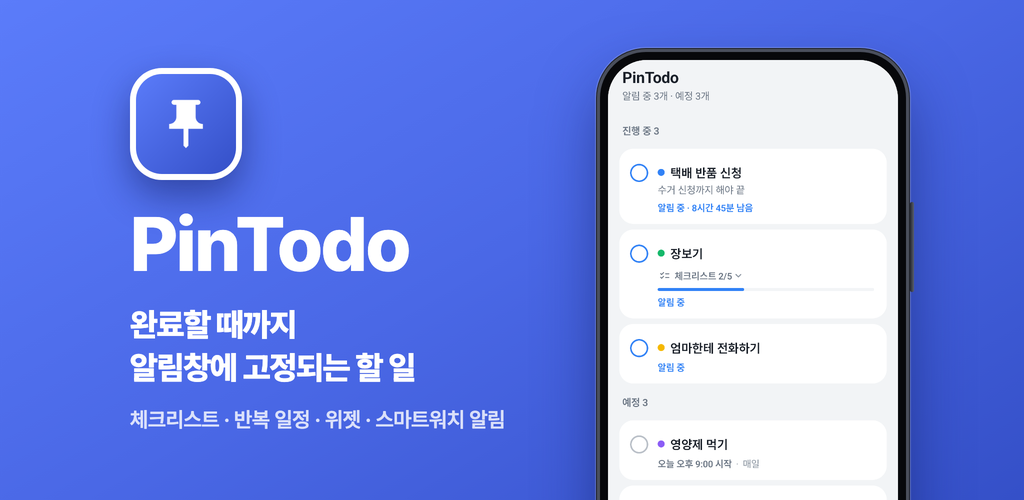
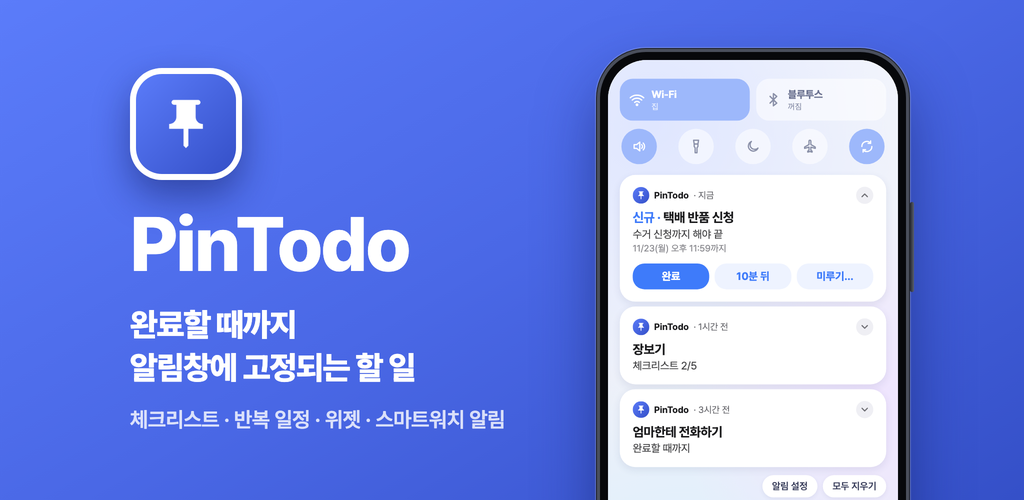
v1.0.0 - docs: 스토어 스크린샷을 '고정' 중심으로 다시 구성
- 앞 3장을 모두 핵심 기능으로: 상단바에 고정된 할 일 · 보통 알림(밀면 사라짐) vs PinTodo(다시 나타남) · 상단바에서 바로 완료
- 알림창은 직접 그린 밝은 갤럭시 느낌 화면으로(빠른 설정은 연하게, 알림 카드가 눈에 띄게)
- 4~6번 문구를 상단바와 연결(새 할 일 · 반복 · 미루기), 앱 안 새 할 일 화면 추가
- 폰 위치 위로, 목업 개선, 모든 장에 로고, 마지막 장 아이콘을 장점 아이콘으로
- 그래픽 이미지: 예전 구성 유지, 폰 화면을 알림창에 고정된 알림으로, 아이콘 잘 보이게, 선명하게
- store/listing.md·shots-src/README.md·CLAUDE.md를 새 구성에 맞춤

diff --git a/store/shots-src/compose.html b/store/shots-src/compose.html
@@ -9,7 +9,7 @@
 body { background: #222; font-family: P, sans-serif; color: #fff; word-break: keep-all; }
 .slide { position: relative; width: 1080px; height: 2160px; overflow: hidden; margin-bottom: 40px;
   background: linear-gradient(160deg, #5b7cfa 0%, #4a68e6 45%, #3550c8 100%); }
-.head { position: absolute; left: 0; right: 0; top: 0; height: 580px; padding-top: 120px !important; display: flex; flex-direction: column;
+.head { position: absolute; left: 0; right: 0; top: 0; height: 480px; padding-top: 110px !important; display: flex; flex-direction: column;
   align-items: center; justify-content: center; text-align: center; padding: 0 60px; }
 .brandpill { position: absolute; left: 50%; top: 56px; transform: translateX(-50%); display: inline-flex; align-items: center; gap: 14px; height: 78px; padding: 0 30px 0 16px; border-radius: 39px;
   background: #fff; color: #2f49c4; font-size: 36px; font-weight: 800; letter-spacing: -.5px; box-shadow: 0 12px 30px rgba(10, 20, 80, .28); }
@@ -152,7 +152,86 @@ body { background: #222; font-family: P, sans-serif; color: #fff; word-break: ke
   box-shadow: 0 0 0 3px #4a4f5c, 0 0 0 4px #23262e, 0 0 0 5px rgba(255,255,255,.18), 0 30px 60px rgba(10, 20, 80, .5); }
 .fphone::after { content: ""; position: absolute; right: -8px; top: 150px; width: 4px; height: 90px; border-radius: 2px; background: linear-gradient(90deg, #23262e, #5a606e); }
 .fphone .sc { position: relative; overflow: hidden; width: 290px; height: 623px; border-radius: 39px; background: #f2f3f5; }
-.fphone .sc img { position: absolute; left: 0; width: 100%; }
+.fphone .sc > img { position: absolute; left: 0; width: 100%; }
+/* 갤럭시(One UI) 느낌 알림창 — 기기 픽셀(가로 1080) 기준으로 그린 뒤 폰 화면 크기로 축소 */
+.gsh { position: relative; width: 1080px; height: 2320px; padding: 70px 44px; color: #fff; font-family: P, sans-serif;
+  background: radial-gradient(circle at 18% 12%, #5a6fb8 0, rgba(90,111,184,0) 42%), radial-gradient(circle at 88% 62%, #7a5aae 0, rgba(122,90,174,0) 48%),
+    radial-gradient(circle at 30% 92%, #3d7f9e 0, rgba(61,127,158,0) 40%), linear-gradient(180deg, #2a3563, #161b33); }
+.gq { display: grid; grid-template-columns: repeat(4, 1fr); gap: 24px; }
+.gq div { height: 170px; border-radius: 58px; background: rgba(255,255,255,.15); display: flex; align-items: center; justify-content: center; }
+.gq div.on { background: #4c86ff; }
+.gb { margin-top: 28px; height: 104px; border-radius: 52px; background: rgba(255,255,255,.15); overflow: hidden; }
+.gb div { height: 100%; width: 62%; background: rgba(255,255,255,.93); border-radius: 52px; display: flex; align-items: center; justify-content: flex-end; padding-right: 30px; }
+.gn { margin-top: 40px; display: flex; flex-direction: column; gap: 18px; }
+.gc { background: rgba(250,250,252,.97); color: #1c1c1e; border-radius: 58px; padding: 44px 48px 46px; }
+.gh { display: flex; align-items: center; gap: 18px; font-size: 34px; color: #6e6e73; }
+.gh img { width: 62px; height: 62px; border-radius: 50%; }
+.gh b { color: #1c1c1e; font-weight: 700; }
+.gh i { margin-left: auto; width: 64px; height: 64px; border-radius: 50%; background: #efeff4; display: flex; align-items: center; justify-content: center; }
+.gt { margin-top: 22px; font-size: 48px; font-weight: 700; letter-spacing: -1px; }
+.gt em { font-style: normal; color: #3e7bfa; }
+.gm { margin-top: 8px; font-size: 40px; color: #48484a; letter-spacing: -.5px; }
+.gs { margin-top: 10px; font-size: 34px; color: #8e8e93; }
+.gl { margin-top: 18px; display: flex; flex-direction: column; gap: 14px; font-size: 42px; }
+.gl div { display: flex; align-items: center; gap: 22px; }
+.gl u { text-decoration: none; width: 46px; height: 46px; border-radius: 12px; border: 4px solid #c7c7cc; display: flex; align-items: center; justify-content: center; }
+.gl div.d { color: #8e8e93; text-decoration: line-through; }
+.gl div.d u { background: #3e7bfa; border-color: #3e7bfa; }
+.ga { margin-top: 36px; display: flex; gap: 20px; }
+.ga span { flex: 1; text-align: center; font-size: 40px; font-weight: 700; color: #3e7bfa; background: #eef3ff; border-radius: 44px; padding: 24px 0; }
+.ga span.p { background: #3e7bfa; color: #fff; }
+.gf { margin-top: 30px; display: flex; justify-content: flex-end; gap: 20px; }
+.gf span { font-size: 36px; font-weight: 600; padding: 20px 36px; border-radius: 44px; background: rgba(255,255,255,.16); }
+.gzoom { position: absolute; width: 992px; transform-origin: 0 0; border-radius: 58px; box-shadow: 0 50px 110px rgba(10, 20, 80, .55), 0 0 0 8px rgba(255,255,255,.5); }
+.bigpin { position: absolute; z-index: 5; filter: drop-shadow(10px 22px 18px rgba(10, 20, 70, .45)); }
+.gzoom .gc { background: #fafafc; }
+.glab { align-self: flex-start; font-size: 38px; font-weight: 800; padding: 18px 32px; border-radius: 44px; background: #fff; color: #3a3f5c; margin-top: 16px; letter-spacing: -.5px; }
+.glab.y { background: #ffcf3a; color: #3a2a00; }
+.gslot { position: relative; height: 262px; border: 5px dashed rgba(255,255,255,.45); border-radius: 58px; overflow: hidden; }
+.gfade { position: absolute; left: 0; right: 0; top: 0; transform: translateX(400px); opacity: .55; -webkit-mask-image: linear-gradient(90deg, #000 25%, transparent 75%); }
+.gq2 { position: absolute; right: 70px; top: 50%; transform: translateY(-50%) rotate(14deg); font-size: 190px; font-weight: 800; color: #fff; text-shadow: 0 12px 30px rgba(0,0,0,.3); }
+.gbell { width: 62px; height: 62px; border-radius: 50%; background: #8e8e93; display: flex; align-items: center; justify-content: center; }
+/* 밝은 알림창 (다른 장과 같은 밝은 느낌) */
+.gsh { color: #1c1c1e; background: radial-gradient(circle at 15% 10%, #dfe6ff 0, rgba(223,230,255,0) 45%), radial-gradient(circle at 90% 55%, #efe4ff 0, rgba(239,228,255,0) 45%),
+  radial-gradient(circle at 25% 90%, #ddf1ff 0, rgba(221,241,255,0) 42%), linear-gradient(180deg, #f4f6fc, #e8ecf6); }
+.gq div { background: #fff; box-shadow: 0 6px 18px rgba(40, 50, 100, .07); }
+.gq div.on { background: #3e7bfa; }
+.gb { background: #fff; box-shadow: 0 6px 18px rgba(40, 50, 100, .07); }
+.gb div { background: #3e7bfa; }
+.gc { background: #fff; box-shadow: 0 10px 30px rgba(40, 50, 100, .09); }
+.gf span { background: #fff; color: #3a3f5c; box-shadow: 0 6px 18px rgba(40, 50, 100, .07); }
+.glab { background: #3a3f5c; color: #fff; }
+.gslot { height: auto; padding: 0; border-color: rgba(60, 70, 110, .28); }
+.gfade { position: relative; transform: translateX(170px); opacity: .5; box-shadow: none; -webkit-mask-image: linear-gradient(90deg, #000 35%, transparent 85%); }
+.gq2 { color: #5b6585; text-shadow: none; }
+/* 빠른 설정 패널 (갤럭시 느낌) */
+.gp { background: rgba(255,255,255,.92); border-radius: 60px; padding: 38px 38px 40px; box-shadow: 0 10px 30px rgba(40, 50, 100, .08); }
+.gp .r1 { display: flex; gap: 24px; }
+.gp .wt { flex: 1; height: 156px; border-radius: 48px; background: #f0f2f7; display: flex; align-items: center; gap: 24px; padding: 0 34px; }
+.gp .wt.on { background: #3e7bfa; color: #fff; }
+.gp .wt b { display: block; font-size: 38px; font-weight: 700; letter-spacing: -.5px; }
+.gp .wt span { display: block; margin-top: 4px; font-size: 30px; opacity: .75; }
+.gp .r2 { display: flex; justify-content: space-between; margin-top: 30px; padding: 0 6px; }
+.gp .ci { width: 132px; height: 132px; border-radius: 50%; background: #f0f2f7; display: flex; align-items: center; justify-content: center; }
+.gp .ci.on { background: #3e7bfa; }
+.gp .br { position: relative; margin-top: 32px; height: 100px; border-radius: 50px; background: #f0f2f7; overflow: hidden; }
+.gp .br div { position: absolute; left: 0; top: 0; bottom: 0; width: 64%; background: #3e7bfa; border-radius: 50px; display: flex; align-items: center; padding-left: 34px; }
+/* 빠른 설정: 흰 패널 배경 없이 버튼만 */
+.gp { background: none; box-shadow: none; padding: 0; border-radius: 0; }
+.gp .wt, .gp .ci, .gp .br { background: #fff; box-shadow: 0 6px 18px rgba(40, 50, 100, .08); }
+.gp .wt.on, .gp .ci.on { background: #3e7bfa; }
+.gsec { display: flex; align-items: center; gap: 24px; margin: 22px 10px 10px; }
+.gsec i { flex: none; width: 78px; height: 78px; border-radius: 50%; display: flex; align-items: center; justify-content: center; }
+.gsec.no i { background: #ffe4e7; } .gsec.ok i { background: #3e7bfa; }
+.gsec b { display: block; font-size: 48px; font-weight: 800; letter-spacing: -1px; color: #1c1c1e; }
+.gsec.no b { color: #6b7280; }
+.gsec span { display: block; margin-top: 4px; font-size: 38px; font-weight: 600; letter-spacing: -.5px; color: #6b7280; }
+.gsec.ok span { color: #2f5fe0; }
+/* 빠른 설정을 연하게 (아래 알림에 눈이 가도록) */
+.gp .wt, .gp .ci, .gp .br { background: rgba(255,255,255,.55); box-shadow: none; }
+.gp .wt.on, .gp .ci.on { background: #9db8fb; color: #fff; }
+.gp .wt { color: #6b7290; }
+.gp .br div { background: #9db8fb; }
 </style>
 </head>
 <body>
@@ -174,51 +253,86 @@ function phone(sw, top, img, cut) {
   } else inner = `<div class="screen" style="width:${sw}px;height:${sh}px"><img class="crop" src="${R}${img}.png" style="top:${-SB * s}px"><div class="glare"></div></div>`;
   return `<div class="phone" style="top:${top}px">${inner}</div>`;
 }
-function head(t, s, brand = true) { return `<div class="head">${brand ? `<div class="brandpill"><img src="${ICON}">PinTodo</div>` : ""}<div class="title">${t}</div><div class="sub">${s}</div></div>`; }
+function head(t, s, brand = true, tall = false) { return `<div class="head"${tall ? ' style="height:580px;padding-top:120px"' : ""}>${brand ? `<div class="brandpill"><img src="${ICON}">PinTodo</div>` : ""}<div class="title">${t}</div><div class="sub">${s}</div></div>`; }
 function notiCrop(y, s) {  // cmp.png 의 알림 한 줄 안쪽 (x 62..1018, 높이 160 — 원본 둥근 모서리 제외)
   return `style="height:${160 * s}px;background-image:url(${R}cmp.png);background-size:${W * s}px auto;background-position:${-62 * s}px ${-y * s}px"`;
 }
 const sN = 960 / 956;
-const PS = 700 / W, PT = 600, PL = (1080 - 732) / 2 + 16;   // 폰(화면 너비 700) 화면 왼쪽 위 = (PL, PT+16)
+const PS = 700 / W, PT = 500, PL = (1080 - 732) / 2 + 16;   // 폰(화면 너비 700) 화면 왼쪽 위 = (PL, PT+16)
 const sy = (y, cut = 466) => PT + 16 + (80 + y - cut) * PS;         // 원본 y → 슬라이드 y (알림창 화면)
 const sx = x => PL + x * PS;
 function bg(img, x, y, s) { return `background-image:url(${R}${img}.png);background-size:${W * s}px auto;background-position:${-x * s}px ${-y * s}px`; }
+// ── 갤럭시(One UI) 느낌 알림창 ──
+const GI = { x: '<path d="M6 6l12 12M18 6L6 18"/>', flash: '<path d="M8 2h8l-1 6H9z"/><path d="M9 8h6v4l-1.5 2v8h-3v-8L9 12z"/>', plane: '<path d="M10.5 3.5a1.5 1.5 0 0 1 3 0V9l7 4v2l-7-2v5l2 1.5V21l-3.5-1-3.5 1v-1.5l2-1.5v-5l-7 2v-2l7-4z"/>', rotate: '<path d="M4 12a8 8 0 0 1 14-5.3M20 12a8 8 0 0 1-14 5.3"/><path d="M18 3v4h-4M6 21v-4h4"/>', bell: '<path d="M6 16V11a6 6 0 0 1 12 0v5l1.5 2h-15z"/><path d="M10 20a2 2 0 0 0 4 0"/>', wifi: '<path d="M2 9a15 15 0 0 1 20 0M5 12.5a10 10 0 0 1 14 0M8.5 16a5 5 0 0 1 7 0"/><circle cx="12" cy="19.5" r="1"/>',
+  sound: '<path d="M4 9v6h4l5 4V5L8 9z"/><path d="M16 9a4 4 0 0 1 0 6M18.5 6.5a8 8 0 0 1 0 11"/>',
+  bt: '<path d="M7 7l10 10-5 4V3l5 4L7 17"/>', moon: '<path d="M20 14.5A8 8 0 1 1 9.5 4a6.5 6.5 0 0 0 10.5 10.5z"/>',
+  sun: '<circle cx="12" cy="12" r="4"/><path d="M12 2v2M12 20v2M2 12h2M20 12h2M4.9 4.9l1.4 1.4M17.7 17.7l1.4 1.4M4.9 19.1l1.4-1.4M17.7 6.3l1.4-1.4"/>',
+  down: '<path d="M6 9l6 6 6-6"/>', up: '<path d="M6 15l6-6 6 6"/>', check: '<path d="M5 12.5l4.5 4.5L19 7.5"/>' };
+const gi = (k, c = "#fff", w = 60, sw = 2) => `<svg width="${w}" height="${w}" viewBox="0 0 24 24" fill="none" stroke="${c}" stroke-width="${sw}" stroke-linecap="round" stroke-linejoin="round">${GI[k]}</svg>`;
+function gcard(n) {
+  return `<div class="gc">
+    <div class="gh"><img src="${ICON}"><b>PinTodo</b><span>· ${n.when || "지금"}</span><i>${gi(n.open ? "up" : "down", "#6e6e73", 40, 2.5)}</i></div>
+    <div class="gt">${n.isNew ? "<em>신규 · </em>" : ""}${n.title}</div>
+    ${n.memo ? `<div class="gm">${n.memo}</div>` : ""}
+    ${n.items ? `<div class="gl">${n.items.map(([t, d]) => `<div class="${d ? "d" : ""}"><u>${d ? gi("check", "#fff", 34, 3.5) : ""}</u>${t}</div>`).join("")}</div>` : ""}
+    ${n.sched ? `<div class="gs">${n.sched}</div>` : ""}
+    ${n.open ? `<div class="ga"><span class="p">완료</span><span>10분 뒤</span><span>미루기…</span></div>` : ""}
+  </div>`;
+}
+function gshade(cards) {
+  return `<div class="gsh">
+    <div class="gp">
+      <div class="r1"><div class="wt on">${gi("wifi", "#fff", 60)}<div><b>Wi-Fi</b><span>집</span></div></div>
+        <div class="wt">${gi("bt", "#8a90a8", 60)}<div><b>블루투스</b><span>꺼짐</span></div></div></div>
+      <div class="r2">${[["sound", 1], ["flash", 0], ["moon", 0], ["plane", 0], ["rotate", 1]].map(([k, on]) => `<div class="ci ${on ? "on" : ""}">${gi(k, on ? "#fff" : "#8a90a8", 56)}</div>`).join("")}</div>
+    </div>
+    <div class="gn">${typeof cards === "string" ? cards : cards.map(gcard).join("")}</div>
+    <div class="gf"><span>알림 설정</span><span>모두 지우기</span></div>
+  </div>`;
+}
+function phoneHTML(sw, top, html) {
+  const s = sw / W, sh = Math.round((H - SB) * s);
+  return `<div class="phone" style="top:${top}px"><div class="screen" style="width:${sw}px;height:${sh}px"><div style="width:${W}px;height:${H - SB}px;transform:scale(${s});transform-origin:0 0">${html}</div><div class="glare"></div></div></div>`;
+}
+const C_RET = { title: "택배 반품 신청", memo: "수거 신청까지 해야 끝", sched: "11/23(월) 오후 11:59까지", isNew: true, open: true };
+const C_RET_S = { title: "택배 반품 신청", memo: "수거 신청까지 해야 끝", when: "40분 전" };
+const C_SHOP = { title: "장보기", memo: "체크리스트 2/5", when: "1시간 전" };
+const C_SHOP_OPEN = { title: "장보기", isNew: true, open: true, items: [["우유", 1], ["계란", 1], ["두부", 0], ["대파", 0], ["키친타월", 0]], sched: "완료할 때까지" };
+const C_MOM = { title: "엄마한테 전화하기", memo: "완료할 때까지", when: "3시간 전" };
+const PIN_SVG = `<svg width="200" height="200" viewBox="0 0 24 24"><defs><linearGradient id="pg" x1="0" y1="0" x2="1" y2="1"><stop offset="0" stop-color="#ffe27a"/><stop offset=".55" stop-color="#ffc42e"/><stop offset="1" stop-color="#f59e0b"/></linearGradient></defs>
+  <path d="M12 15.5v6.2" stroke="#c9ced8" stroke-width="1.3" stroke-linecap="round"/>
+  <path d="M16 3H8a1 1 0 0 0 0 2h1v5.2c-1.3.7-2.5 1.9-3 3.5a.8.8 0 0 0 .8 1.1h10.4a.8.8 0 0 0 .8-1.1c-.5-1.6-1.7-2.8-3-3.5V5h1a1 1 0 0 0 0-2z" fill="url(#pg)" stroke="#b86e00" stroke-width=".5"/>
+  <path d="M10 5.2h1.3v5.4c-.9.5-1.7 1.2-2.1 2" stroke="#fff6cf" stroke-width=".7" fill="none" stroke-linecap="round" opacity=".9"/></svg>`;
+const PUSHPIN = `<svg width="200" height="200" viewBox="0 0 100 100"><defs>
+  <radialGradient id="ph" cx="38%" cy="32%" r="70%"><stop offset="0" stop-color="#ff8a95"/><stop offset=".45" stop-color="#f43f52"/><stop offset="1" stop-color="#b3132a"/></radialGradient>
+  <linearGradient id="pn" x1="0" x2="1"><stop offset="0" stop-color="#8d94a3"/><stop offset=".5" stop-color="#eef0f4"/><stop offset="1" stop-color="#8d94a3"/></linearGradient></defs>
+  <ellipse cx="50" cy="94" rx="9" ry="3" fill="rgba(30,40,80,.25)"/>
+  <path d="M48 50 L50 95 L52 50 Z" fill="url(#pn)"/>
+  <circle cx="50" cy="32" r="23" fill="url(#ph)"/>
+  <ellipse cx="42" cy="23" rx="8" ry="5.5" fill="#fff" opacity=".7" transform="rotate(-30 42 23)"/></svg>`;
 const CS = 888 / 956;
 const slides = [
-  // 1. 공감: 보통 알림은 밀면 사라지지만 PinTodo 알림은 남음 (직접 그린 카드)
-  head("알림, 밀면 끝이었죠?", "PinTodo는 끝낼 때까지 상단바에 남아 있어요") + `
-  <div class="pill w" style="left:60px;top:700px">보통 알림 · 밀면 사라지고 끝</div>
-  <div class="ghost2" style="top:790px"><div class="slot"></div>
-    <div class="in"><div class="ic"></div><div class="tx"><b>택배 반품 신청</b><span>오늘 자정까지 수거 신청하기</span></div></div></div>
-  <div class="swipe" style="top:830px">→</div>
-  <div class="qmark" style="top:790px">?</div>
-  <div class="pill y" style="left:60px;top:1080px">↻ PinTodo · 밀어도 다시 나타나요</div>
-  <div class="nc" style="top:1170px">
-    <div class="top"><img src="${ICON}">PinTodo · 지금</div>
-    <div class="tt">택배 반품 신청</div>
-    <div class="mm">수거 신청까지 해야 끝</div>
-    <div class="sc">오늘 오후 11:59까지</div>
-    <div class="ac"><span class="p">완료</span><span>10분 뒤</span><span>미루기…</span></div>
-  </div>
-  <div class="facts" style="top:1760px">
-    <div class="fact"><i>↻</i>밀어서 지워도, '모두 지우기'를 눌러도</div>
-    <div class="fact ok"><i>✓</i>[완료]를 눌러야만 사라져요</div>
-  </div>`,
-  // 2. 앱 화면
-  head("적어 두기만 하세요", "시간이 되면 상단바에 띄우고, 끝낼 때까지 남겨 둬요") + phone(700, PT, "list"),
-  // 3. 빠른 추가
-  head("생각난 그 순간,\n바로 적어요", "'내일 오후 3시'라고 쓰면 시간까지 자동으로") + phone(700, PT, "quick"),
-  // 4. 알림에서 바로 (펼친 체크리스트 알림을 크게)
-  head("앱 열 필요 없이\n상단바에서 바로 완료", "체크리스트도 알림에서 바로 확인") + phone(700, PT, "noti", 532) + `
-  <div class="zoom" style="top:1195px;height:${(1424 - 736) * 980 / 996}px;${bg("noti", 42, 736, 980 / 996)}"></div>`,
-  // 5. 미루기
-  head("지금은 못 하겠다면?", "미뤄 두면 그때 다시 알려 줘요") + phone(700, PT, "snooze"),
-  // 6. 반복
-  head("매일 영양제, 매달 관리비", "반복하는 일은 한 번만 적어 두세요") + phone(700, PT, "edit"),
+  // 1. 핵심: 할 일을 상단바에 꽂아 둠 (갤럭시 느낌 알림창 + 압정)
+  head("할 일을 상단바에\n꽂아 두세요", "완료할 때까지 사라지지 않는 할 일 알림") + phoneHTML(700, PT, gshade([C_RET, C_SHOP, C_MOM])),
+  // 2. 공감: 보통 알림은 밀면 사라지고, PinTodo는 다시 나타남 (밝은 알림창 안에서, 문구로 구분)
+  head("알림, 밀면 끝이었죠?", "PinTodo는 [완료]를 눌러야만 사라져요") + phoneHTML(700, PT, gshade(`
+    <div class="gsec no"><i>${gi("x", "#f04452", 44, 3)}</i><div><b>보통 알림</b><span>밀면 그대로 사라져요</span></div></div>
+    <div class="gslot"><div class="gc gfade"><div class="gh"><span class="gbell">${gi("bell", "#fff", 38, 2.2)}</span><b>리마인더</b><span>· 지금</span></div>
+      <div class="gt">택배 반품 신청</div><div class="gm">오늘 자정까지 수거 신청하기</div></div></div>
+    <div class="gsec ok" style="margin-top:56px"><i>${gi("check", "#fff", 44, 3)}</i><div><b>PinTodo</b><span>밀어도, 모두 지워도 다시 나타나요</span></div></div>
+    ${gcard(C_RET)}${gcard(C_MOM)}`)),
+  // 3. 알림에서 바로 완료 (갤럭시 느낌 알림창 + 펼친 체크리스트 확대)
+  head("앱 열 필요 없이\n상단바에서 바로 완료", "체크리스트도 알림에서 바로 확인") + phoneHTML(700, PT, gshade([C_SHOP_OPEN, C_RET_S, C_MOM])),
+  // 4. 앱에서 새 할 일 (날짜 인식)
+  head("적어 두면, 그 시간에\n상단바에 고정돼요", "'내일 오후 3시'처럼 쓰면 시간도 자동으로") + phone(700, PT, "newtodo"),
+  // 5. 반복
+  head("매일 그 시간,\n상단바에 다시 떠요", "영양제·관리비처럼 반복하는 일은 한 번만") + phone(700, PT, "edit"),
+  // 6. 미루기
+  head("지금은 못 하겠다면?\n미뤄 두세요", "그 시간이 되면 다시 상단바에") + phone(700, PT, "snooze"),
   // 7. 위젯
   head("홈 화면에서도\n한눈에", "위젯에서 바로 완료·미루기") + phone(700, PT, "home"),
   // 8. 광고·로그인 없음
-  head("광고 없이,\n로그인 없이", "필요한 기능만, 처음부터 끝까지 무료로", false) + `
+  head("광고 없이,\n로그인 없이", "필요한 기능만, 처음부터 끝까지 무료로", false, true) + `
   <div class="hero"><img src="${ICON}"><div class="nm">PinTodo</div></div>
   <div class="rows">
     <div class="row"><i><svg width="44" height="44" viewBox="0 0 24 24" fill="none" stroke="#3182f6" stroke-width="2" stroke-linecap="round" stroke-linejoin="round"><path d="M12 3l1.8 4.7L18.5 9.5l-4.7 1.8L12 16l-1.8-4.7L5.5 9.5l4.7-1.8z"/><path d="M19 15l.8 2.2L22 18l-2.2.8L19 21l-.8-2.2L16 18l2.2-.8z"/></svg></i><div><b>광고 X</b><span>화면을 가리는 광고가 없어요</span></div></div>
@@ -249,7 +363,7 @@ const feat2 = `<div class="feat" id="feature2">
     <div class="cp">완료할 때까지<br>알림창에 고정되는 할 일</div>
     <div class="ft">체크리스트 · 반복 일정 · 위젯 · 스마트워치 알림</div>
   </div>
-  <div class="fphone"><div class="sc"><img src="${R}list.png" style="top:${-80 * 290 / 1080}px"></div></div>
+  <div class="fphone"><div class="sc"><div style="width:1080px;height:2320px;transform:scale(${290 / 1080});transform-origin:0 0">${gshade([C_RET, C_SHOP, C_MOM])}</div></div></div>
 </div>`;
 document.getElementById("out").innerHTML = slides.map((h, i) => `<div class="slide" id="s${i + 1}">${h}</div>`).join("") + feature + feat2;
 document.fonts.ready.then(() => Promise.all([...document.images].map(i => i.decode().catch(() => {})))).then(() => { window.READY = true; });

diff --git a/store/shots-src/render.py b/store/shots-src/render.py
@@ -5,7 +5,7 @@ from playwright.async_api import async_playwright
 from PIL import Image
 P = os.path.dirname(os.path.abspath(__file__))
 OUT = os.path.abspath(sys.argv[1]) if len(sys.argv) > 1 else os.path.dirname(P)
-NAMES = ["01-hook", "02-list", "03-quick-add", "04-notification", "05-snooze", "06-repeat", "07-widget", "08-no-ads"]
+NAMES = ["01-pin", "02-hook", "03-notification", "04-new-todo", "05-repeat", "06-snooze", "07-widget", "08-no-ads"]
 async def main():
     async with async_playwright() as p:
         b = await p.chromium.launch(args=["--allow-file-access-from-files"])

diff --git a/store/shots-src/README.md b/store/shots-src/README.md
@@ -2,15 +2,17 @@
 
 `store/screenshots/01~08.png`(1080×2160)와 `store/feature-1024x500.png`를 만드는 소스. 원본 화면·폰트는 `work/`(커밋 안 함)에 생긴다.
 
-구성: 1 공감(직접 그린 알림 카드: 보통 알림은 밀면 사라짐 ↔ PinTodo는 남음) → 2 앱 목록 → 3 빠른 추가(날짜 인식) → 4 알림에서 바로 완료(체크리스트 확대) → 5 미루기 → 6 반복 → 7 위젯 → 8 광고·로그인 없음
+구성: 1 상단바에 고정된 할 일 → 2 보통 알림(밀면 사라짐) vs PinTodo(다시 나타남) → 3 상단바에서 바로 완료(펼친 체크리스트) → 4 새 할 일(날짜 인식) → 5 반복 → 6 미루기 → 7 위젯 → 8 광고·로그인 없음
 
-그래픽 이미지는 `compose.html`의 `#feature2`(예전 구성: 아이콘·이름·문구·주요 기능 + 목록 화면)를 2배로 그린 뒤 줄여서 저장. `#feature`는 쓰지 않는 시안
+- 1~3번과 그래픽 이미지의 알림창은 **캡처가 아니라 `compose.html`에서 직접 그린 밝은 갤럭시(One UI) 느낌 화면**(`gshade`/`gcard`). 에뮬레이터는 구글 기본 UI라 갤럭시 사용자에게 낯설고 눈에 덜 띄어서. 빠른 설정은 일부러 연하게(아래 알림에 눈이 가도록), 삼성 로고 등 상표는 넣지 않음
+- 4~7번은 에뮬레이터 실제 화면. 상태 표시줄(위 80px)은 잘라냄
+- 모든 장 위에 PinTodo 배지(8번은 가운데 큰 로고가 있어 뺌)
 
 ## 순서
 1. 에뮬레이터 준비 (한 번만): `Medium_Phone`(1080×2400), 시스템 언어 한국어, 키보드 앱 사용 중지, 홈 화면 맨 위에 PinTodo 위젯을 가로 꽉·4줄 높이로
-2. 앱 설치: `./gradlew assembleDebug && adb -e install -r app/build/outputs/apk/debug/app-debug.apk` (예시 데이터를 `run-as`로 넣으므로 디버그 빌드), `zsh store/promo-src/reminder-app/build.sh` (1번의 '보통 알림' 역할)
-3. 촬영: `zsh store/shots-src/capture.sh` → `work/raw/*.png` (합성할 때 상태 표시줄 80px는 잘라냄). 결과를 꼭 눈으로 확인 — 앱이 늦게 뜨면 시작 화면이 찍힘
+2. 앱 설치: `./gradlew assembleDebug && adb -e install -r app/build/outputs/apk/debug/app-debug.apk` (예시 데이터를 `run-as`로 넣으므로 디버그 빌드)
+3. 촬영: `zsh store/shots-src/capture.sh` → `work/raw/*.png`. 결과를 꼭 눈으로 확인 — 앱이 늦게 뜨면 시작 화면이 찍힘
 4. 폰트: `curl -L -o store/shots-src/work/font/Pretendard.woff2 https://cdn.jsdelivr.net/npm/pretendard@1.3.9/dist/web/variable/woff2/PretendardVariable.woff2`
-5. 합성(Playwright Chromium): `python3 store/shots-src/render.py` → `store/` 에 저장. 확인만 할 때는 출력 폴더를 인자로
+5. 합성(Playwright Chromium): `python3 store/shots-src/render.py` → `store/`에 저장(그래픽 이미지는 2배로 그린 뒤 줄여서 선명하게). 확인만 할 때는 출력 폴더를 인자로
 
-예시 할 일은 `seed.py`, 문구·배치는 `compose.html`의 `slides` 배열에서 고친다.
+예시 할 일은 `seed.py`, 문구·배치는 `compose.html`의 `slides` 배열, 그래픽 이미지는 `#feature2`(`#feature`는 쓰지 않는 시안)에서 고친다.

diff --git a/CLAUDE.md b/CLAUDE.md
@@ -28,7 +28,7 @@
 - [x] ~~`REQUEST_IGNORE_BATTERY_OPTIMIZATIONS`~~ 제거 → 앱 정보 화면(배터리 > 제한 없음)으로 안내 (v0.4.2)
 - [x] 개인정보처리방침 `docs/privacy-policy.md` → GitHub Pages(main /docs) 켜면 https://ganglike248.github.io/pinTodo/privacy-policy
 - [x] 스토어 그래픽 `store/`(아이콘 512, 그래픽 1024×500, 스크린샷 1080×2160 — Play는 긴 변이 짧은 변의 2배 이하만 허용이라 화면을 자르지 말고 설명 문구와 함께 틀 안에 축소해 넣음)
-- [x] 정식 출시 후 등록 정보 개편(2026-11-23): 기능 나열 대신 공감형 문구(`store/listing.md`), 스크린샷 8장·그래픽 이미지는 `store/shots-src/`(에뮬레이터 촬영 → HTML 합성, 상태 표시줄은 잘라냄)로 다시 만듦. 홍보 영상은 더 이상 만들지 않음
+- [x] 정식 출시 후 등록 정보 개편(2026-11-23): 기능 나열 대신 공감형 문구(`store/listing.md`), 스크린샷 8장·그래픽 이미지는 `store/shots-src/`로 다시 만듦(앞 3장은 '고정'을 보여 주는 직접 그린 밝은 갤럭시 느낌 알림창, 나머지는 에뮬레이터 화면에서 상태 표시줄을 잘라 합성). 홍보 영상은 더 이상 만들지 않음
 - [x] Play Console 등록 → 비공개 테스트 → 프로덕션 승인 (2026-11)
 - [x] 정식 출시 1.0.0 (versionCode 22), 이후 versionCode는 계속 증가
 
